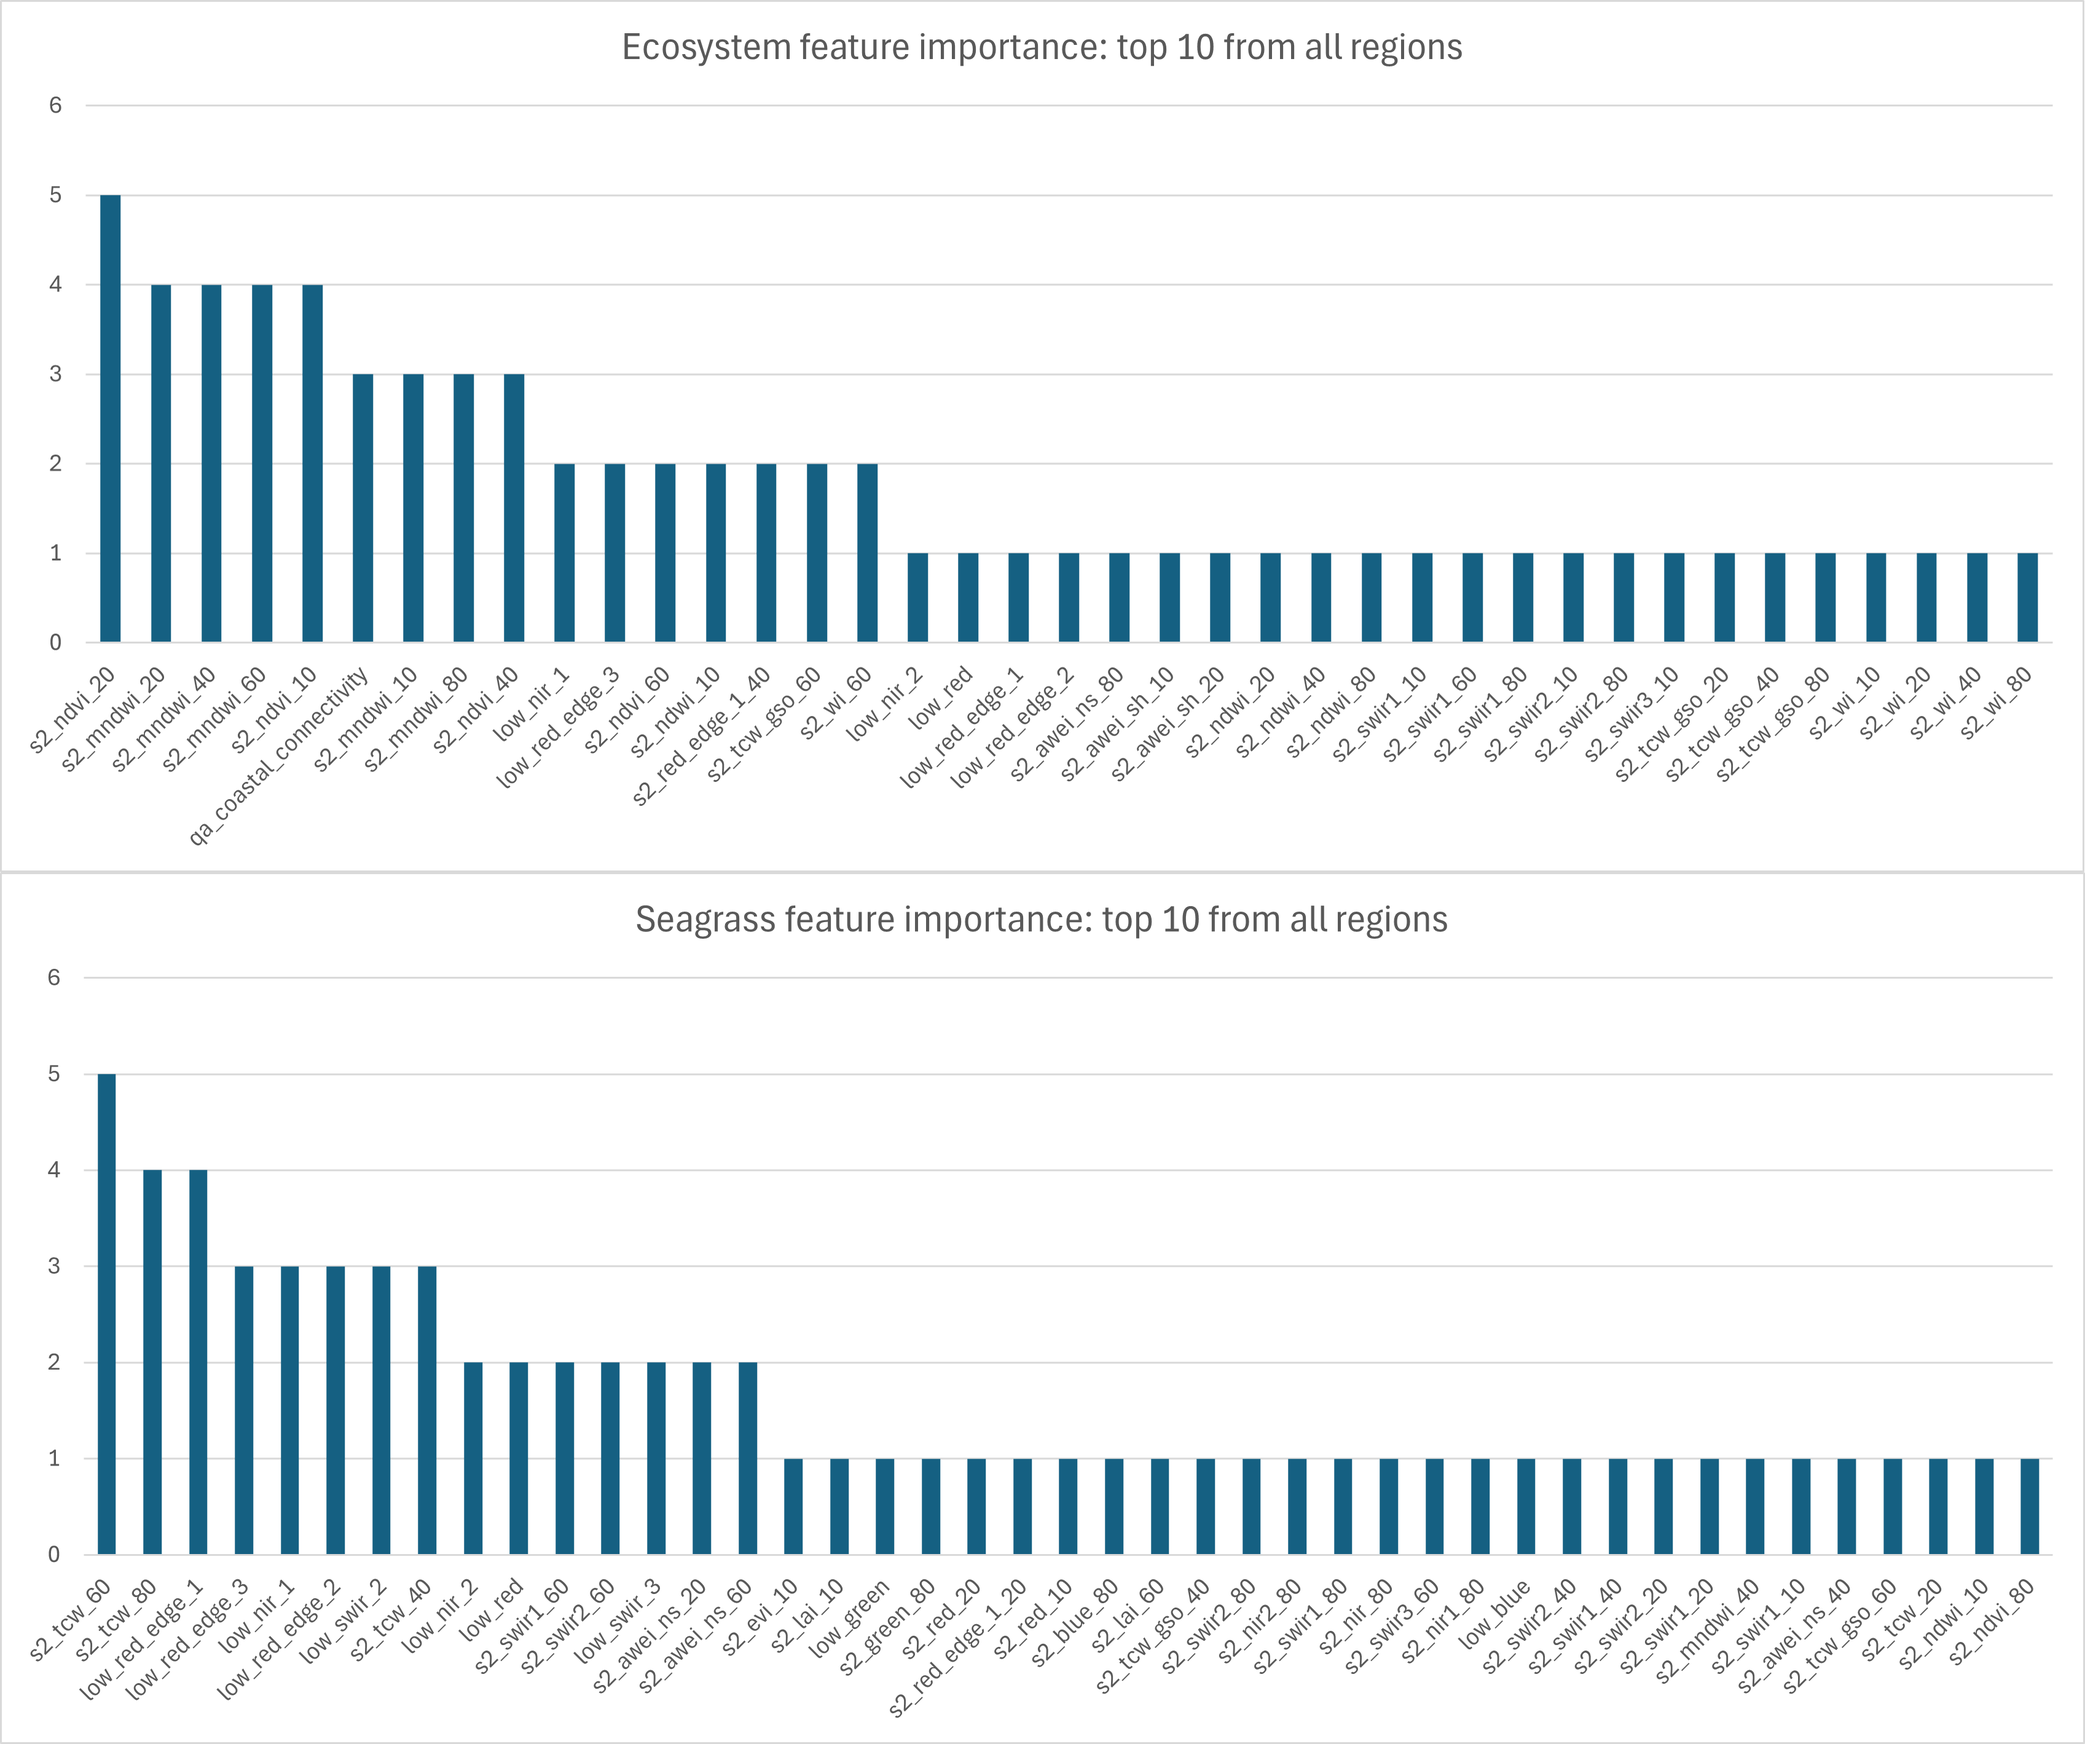
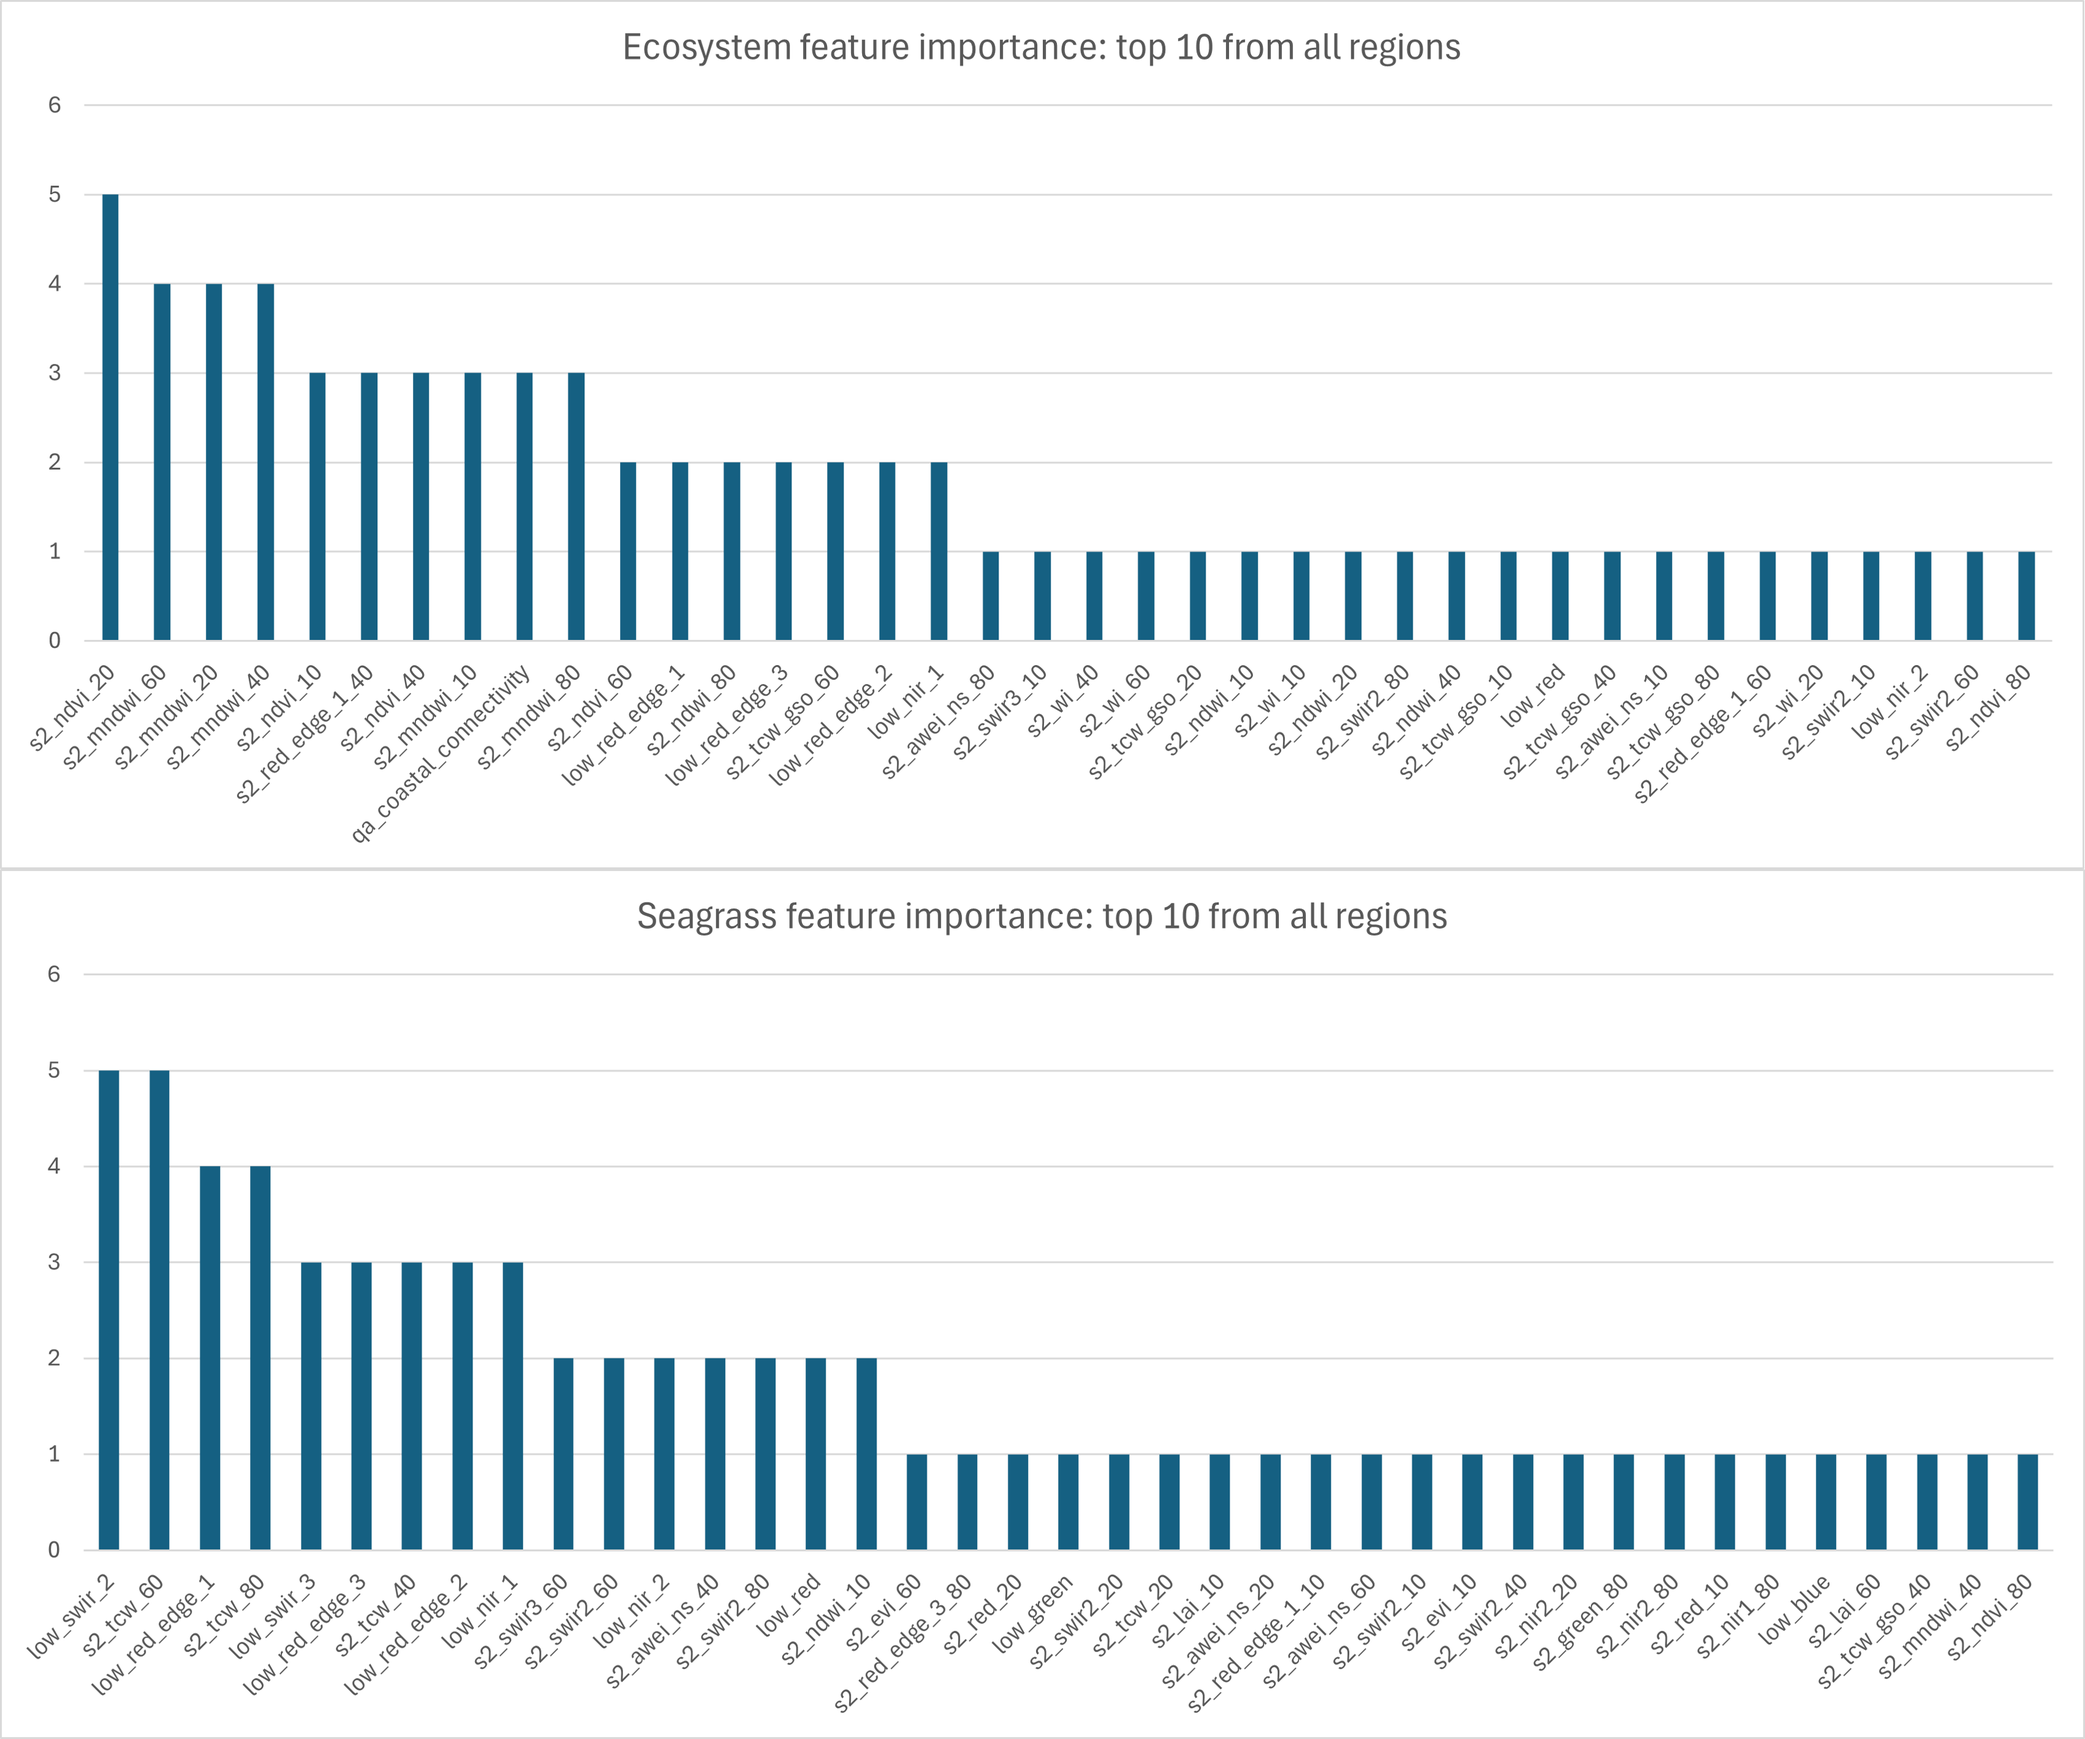
replace ML feature importance and update covariates section

diff --git a/docs/data/product/dea-coastalecosystems/_description.md b/docs/data/product/dea-coastalecosystems/_description.md
@@ -193,7 +193,7 @@ This approach balanced the need for increased training data volume across all se
 
 ### 2. Covariate Data
 :::{dropdown} Covariate Data Stack
-Covariate data describes the input datasets used to train the ML models. Covariate data stacks were generated using a combination of [Sentinel-2 Analysis Ready Data]((https://knowledge.dea.ga.gov.au/data/category/dea-surface-reflectance/)), remote-sensing indices and derived datasets (Table 3). These covariate stacks of 131 total variables were generated for each of the modelling years.
+Covariate data describes the input datasets used to train the ML models. Covariate data stacks were generated using a combination of [Sentinel-2 Analysis Ready Data]((https://knowledge.dea.ga.gov.au/data/category/dea-surface-reflectance/)), remote-sensing indices and derived datasets (Table 3). These covariate stacks of 121 total variables were generated for each of the modelling years.
 
 **Table 3** Covariate datasets used to model coastal ecosystems
 | Data Source | Variable | Percentiles | Total Count |
@@ -204,10 +204,8 @@ Covariate data describes the input datasets used to train the ML models. Covaria
 |  | nbart_red_edge_1 | 10,20,40,60,80 | 5 |
 |  | nbart_red_edge_2 | 10,20,40,60,80 | 5 |
 |  | nbart_red_edge_3 | 10,20,40,60,80 | 5 |
-|  | nbart_nir | 10,20,40,60,80 | 5 |
 |  | nbart_nir_1 | 10,20,40,60,80 | 5 |
 |  | nbart_nir_2 | 10,20,40,60,80 | 5 |
-|  | nbart_swir_1 | 10,20,40,60,80 | 5 |
 |  | nbart_swir_2 | 10,20,40,60,80 | 5 |
 |  | nbart_swir_3 | 10,20,40,60,80 | 5 |
 | **Sentinel-2 derived indices** |  |  |  |
